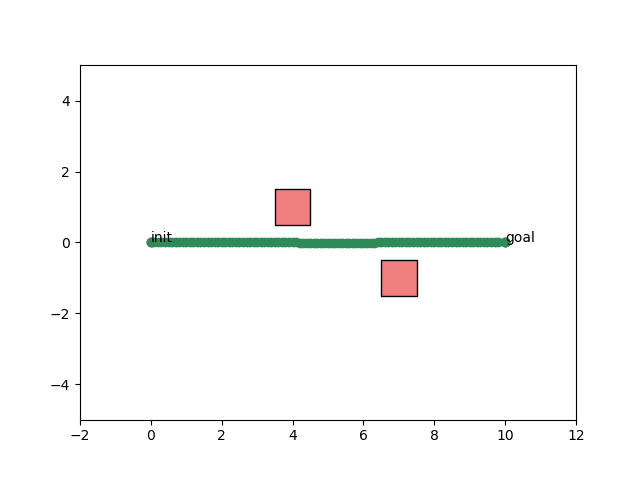
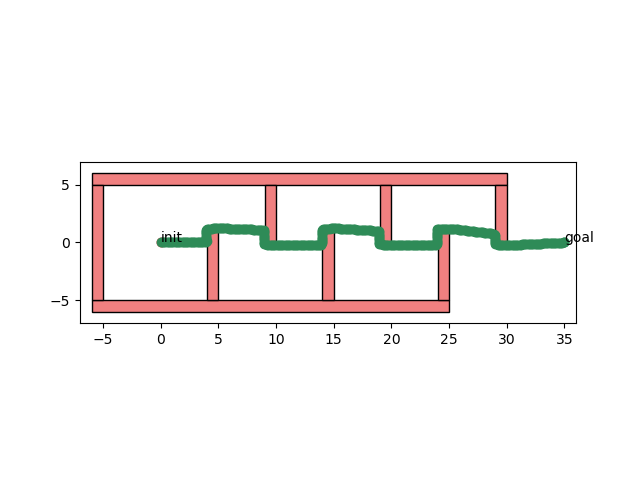
Final FINAL FINAL ALL DONE CENTROID POTENTIAL

diff --git a/ws/hw5/MyGDAlgorithm.h b/ws/hw5/MyGDAlgorithm.h
@@ -20,6 +20,72 @@ class MyGDAlgorithm : public amp::GDAlgorithm {
 		double d_star, zetta, Q_star, eta;
 };
 
+
+// ==================================================================
+// ## NEW CLASS: Represents the full Attractive + Repulsive field  ##
+// ==================================================================
+class MyCombinedPotential : public amp::PotentialFunction2D {
+public:
+    MyCombinedPotential(const amp::Problem2D& problem, double d_star, double zetta, double Q_star, double eta)
+        : m_problem(problem), d_star(d_star), zetta(zetta), Q_star(Q_star), eta(eta) {}
+
+    // We only need to implement the gradient for visualization
+    virtual double operator()(const Eigen::Vector2d& q) const override {
+        // Calculating the true potential is complex, so we can return 0.0 as we only need the gradient.
+        return 0.0;
+    }
+
+    virtual Eigen::Vector2d getGradient(const Eigen::Vector2d& q) const override {
+        // This is the same logic from your plan() method
+        
+        // Attractive Gradient
+        Eigen::Vector2d grad_attractive;
+        double dist_to_goal = (q - m_problem.q_goal).norm();
+        if (dist_to_goal <= d_star) {
+            grad_attractive = zetta * (q - m_problem.q_goal);
+        } else {
+            grad_attractive = d_star * zetta * (q - m_problem.q_goal) / dist_to_goal;
+        }
+
+        // Repulsive Gradient
+        Eigen::Vector2d grad_repulsive(0.0, 0.0);
+        for (const amp::Obstacle2D& obstacle : m_problem.obstacles) {
+            Eigen::Vector2d closest_point_on_obstacle;
+            double min_dist_sq = std::numeric_limits<double>::max();
+            auto vertices = obstacle.verticesCCW();
+            if (vertices.empty()) continue;
+
+            for (size_t i = 0; i < vertices.size(); ++i) {
+                const Eigen::Vector2d& v1 = vertices[i];
+                const Eigen::Vector2d& v2 = vertices[(i + 1) % vertices.size()];
+                Eigen::Vector2d edge = v2 - v1;
+                Eigen::Vector2d vec_to_q = q - v1;
+                double t = vec_to_q.dot(edge) / edge.squaredNorm();
+                t = std::max(0.0, std::min(1.0, t));
+                Eigen::Vector2d projection = v1 + t * edge;
+                double dist_sq = (q - projection).squaredNorm();
+                if (dist_sq < min_dist_sq) {
+                    min_dist_sq = dist_sq;
+                    closest_point_on_obstacle = projection;
+                }
+            }
+            double dist_to_obs = std::sqrt(min_dist_sq);
+            
+            if (dist_to_obs <= Q_star) {
+                Eigen::Vector2d grad_dist = (q - closest_point_on_obstacle).normalized();
+                grad_repulsive += eta * (1.0 / Q_star - 1.0 / dist_to_obs) * (1.0 / (dist_to_obs * dist_to_obs)) * grad_dist;
+            }
+        }
+        
+        return grad_attractive + grad_repulsive;
+    }
+
+private:
+    const amp::Problem2D& m_problem;
+    double d_star, zetta, Q_star, eta;
+};
+
+
 class MyPotentialFunction : public amp::PotentialFunction2D {
     public:
 		// Potential function
@@ -27,8 +93,7 @@ class MyPotentialFunction : public amp::PotentialFunction2D {
             return q[0] * q[0] + q[1] * q[1];
         }
 		virtual Eigen::Vector2d getGradient(const Eigen::Vector2d& q) const override {
-    		return Eigen::Vector2d(2.0 * q[0], 2.0 * q[1]);
+    		return Eigen::Vector2d(2.0 * q[0],  2.0 * q[1]);
 		}	
-
 };
 

diff --git a/ws/hw5/main.cpp b/ws/hw5/main.cpp
@@ -41,8 +41,8 @@ int main(int argc, char** argv) {
     double eta    = 0.1; // Repulsive gain 
     MyGDAlgorithm algo(d_star, zetta, Q_star, eta);
 
-    // // Option 2: HW2 Workspace 1 
-    // Problem2D problem = HW2::getWorkspace1();
+    // Option 2: HW2 Workspace 1 
+    Problem2D problem = HW2::getWorkspace1();
 
     // // Option 3: HW2 Workspace 2 
     // Problem2D problem = HW2::getWorkspace2();
@@ -54,7 +54,8 @@ int main(int argc, char** argv) {
     Visualizer::makeFigure(problem, path);
 
     // Visualize your potential function
-    Visualizer::makeFigure(MyPotentialFunction{}, problem, 30);
+    Visualizer::makeFigure(MyCombinedPotential(problem, d_star, zetta, Q_star, eta), problem, 50);
+    
     Visualizer::saveFigures();
     
     HW5::grade<MyGDAlgorithm>("AllenDevaraj.AugustinPonraj@colorado.edu", argc, argv, d_star, zetta, Q_star, eta);
